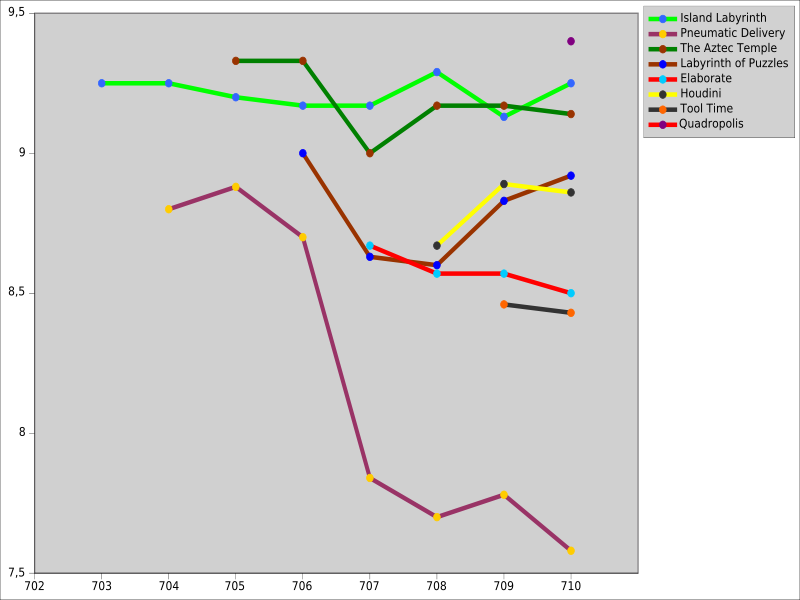
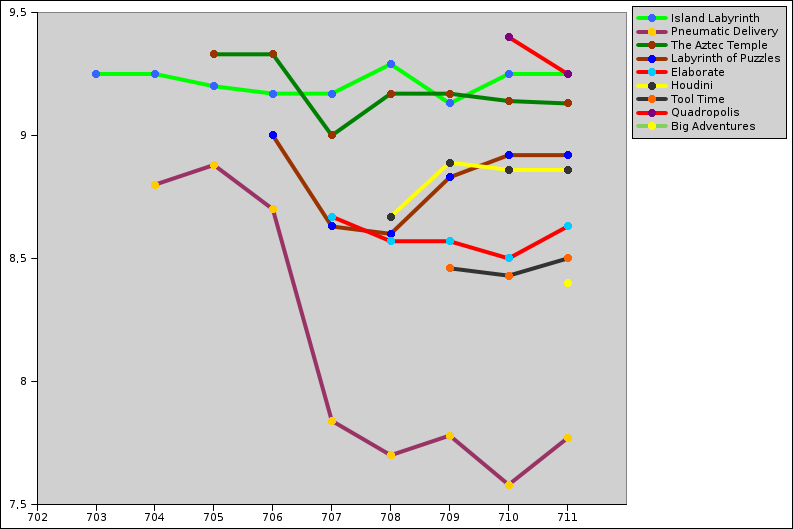
Homepage/LotM:  - LotM November 2007 (English)  - some typos and umlauts Todo:  - English proofread  - German, Russian and Spanish translations

diff --git a/input/lotm/lotm_200711.html b/input/lotm/lotm_200711.html
@@ -1,0 +1,319 @@
+<div class="lotm">
+$$lotm_header$$
+
+<h3 class="lotm">
+<span class="date">November 2007: </span>
+&quot;Big Adventures&quot;, by Jon 'WB' Sneyers
+</h3>
+
+<p>&quot;Greetings, adventurer! The road ahead is long and dangerous, so be
+careful!&quot; Jon left us a short, accurate welcome message at the beginning of
+his epic level. He encourages us to try and solve all the little riddle-pearls
+he lined up in this jewel from Enigma 0.92. And in the milky luster of each of
+these little polished pearls, the reminiscence of yet another vintage level
+flashes, or the vision of a level to come, each in a new and elegant way,
+briefly capturing the beauty of their myriad puzzles, in much the same way a
+haiku captures the entirety of a moment in just three lines ... let's pause for
+this moment and amble through the Level of the Month November 2007, &quot;Big
+Adventures&quot;!</p>
+
+<div class="lotmpic">
+<img src="$$imagedir$$/lotm/lotm_200711_d.png" alt="Level of the month" border="0">
+<div class="imagetitle">Enigma IV # 100 - Big Adventures</div>
+</div>
+
+<table cellpadding="0" cellspacing="1" class="statistics">
+<caption class="normalcaption">Some records of September 2007</caption>
+<colgroup>
+   <col width="80">
+   <col width="160">
+</colgroup>
+    <tr><td class="num">6:39</td>
+        <td class="left">Stupid</td></tr>
+    <tr><td class="num">6:45</td>
+        <td class="left">Moneymaker</td></tr>
+    <tr><td class="num">7:58</td>
+        <td class="left">Django</td></tr>
+    <tr><td class="num">8:49</td>
+        <td class="left">Great Scott</td></tr>
+    <tr><td class="num">10:10</td>
+        <td class="left">Craven</td></tr>
+    <tr><td class="num">10:13</td>
+        <td class="left">Safalra</td></tr>
+    <tr><td class="num">10:28</td>
+        <td class="left">ryujun</td></tr>
+    <tr><td class="num">10:43</td>
+        <td class="left">Johannes</td></tr>
+    <tr><td class="num">10:44</td>
+        <td class="left">Lukas</td></tr>
+    <tr><td class="num">10:56</td>
+        <td class="left">fabian</td></tr>
+    <tr><td class="num">10:58</td>
+        <td class="left">Ronald</td></tr>
+    <tr><td class="num">11:32</td>
+        <td class="left">Vlad</td></tr>
+    <tr><td class="num">11:33</td>
+        <td class="left">daydreamer</td></tr>
+    <tr><td class="num">11:51</td>
+        <td class="left">bojster</td></tr>
+    <tr><td class="num">12:16</td>
+        <td class="left">Ghatotkacha</td></tr>
+    <tr><td class="num">12:59</td>
+        <td class="left">erich</td></tr>
+    <tr><td class="num">13:03</td>
+        <td class="left">hdwow</td></tr>
+    <tr><td class="num">13:54</td>
+        <td class="left">Taztunes</td></tr>
+    <tr><td class="num">14:08</td>
+        <td class="left">Marc-Hendrik</td></tr>
+    <tr><td class="num">14:17</td>
+        <td class="left">Tobias</td></tr>
+    <tr><td class="num">14:31</td>
+        <td class="left">shoki</td></tr>
+    <tr><td class="num">14:49</td>
+        <td class="left">ABS</td></tr>
+    <tr><td class="num">16:10</td>
+        <td class="left">biotopa</td></tr>
+    <tr><td class="num">16:31</td>
+        <td class="left">NorthForty</td></tr>
+    <tr><td class="num">17:44</td>
+        <td class="left">JuSt+Vinksu</td></tr>
+    <tr><td class="num">18:21</td>
+        <td class="left">Mark P.</td></tr>
+    <tr><td class="num">18:24</td>
+        <td class="left">Melanie</td></tr>
+    <tr><td class="num">18:44</td>
+        <td class="left">Little_Mole</td></tr>
+    <tr><td class="num">19:02</td>
+        <td class="left">redsantz</td></tr>
+    <tr><td class="num">19:26</td>
+        <td class="left">mhatta</td></tr>
+    <tr><td class="num">21:58</td>
+        <td class="left">WP319</td></tr>
+    <tr><td class="num">23:07</td>
+        <td class="left">Alex</td></tr>
+    <tr><td class="num">23:25</td>
+        <td class="left">Valkyrie2</td></tr>
+    <tr><td class="num">26:22</td>
+        <td class="left">Ale</td></tr>
+    <tr><td class="num">28:44</td>
+        <td class="left">U-Punkt</td></tr>
+    <tr><td class="num">30:14</td>
+        <td class="left">HuB34</td></tr>
+    <tr><td class="num">31:36</td>
+        <td class="left">para_doks</td></tr>
+    <tr><td class="num">33:31</td>
+        <td class="left">Tarim</td></tr>
+    <tr><td class="num">48:08</td>
+        <td class="left">Sim_Ed</td></tr>    
+</table>
+
+<p>Not much has changed in the ratings of the previous LotMs:
+&quot;Quadropolis&quot; collected three more ratings, and lost its advance.
+Now, &quot;Quadropolis&quot; and &quot;Island Labyrinth&quot; are neck and
+neck, two months before the final &quot;Level of the Year&quot; announcement!
+&quot;Big Adventures&quot; enters the competition at place 8, and will surely
+keep its deserved position among the top ten levels in Enigma for many more
+LotMs to come. As always, you can find more details about the ratings
+on the <a href="$$lotm$$">LotM archive page</a>.</p>
+
+<h4>&quot;'Big Adventures' is a much more easy and pleasant level to
+play&quot;</h4>
+
+<p>Jon's classic level leads us straight back to the roots of Enigma and
+even the great Oxyd series itself. It is the second epic level only after
+&quot;Labyrinth of Puzzles&quot; and offers us a perspective: Already the initial
+scene presents us one of the most used patterns in Enigma: Three woods in a row.
+We know this combination by heart, and how to solve it, and a smile rushs over
+my face when I read the occassional question on mag-heut, how to tackle
+&quot;Jam&quot; from Oxyd Magnum. When I first encountered &quot;Big
+Adventures&quot;, the same smile ran over my face and I pushed the three blocks
+in an almost absent mood - just to notice that, this time, there would be more:
+I forgot the water. And now I had one wood too less to bridge it. After all
+these years, Jon was able to show me yet another twist on this old pattern. And
+I suddenly embosomed this level &hellip;</p>
+
+<div class="lotmpic">
+<img src="$$imagedir$$/lotm/lotm_200711_c.png" alt="Level of the month" border="0">
+<div class="imagetitle">Why is everybody pointing at me?</div>
+</div>
+
+<div class="quote">
+To be able to write a comment about 'Big Adventures' first I had to retry
+solving it and, while doing so, to succeed in being even faster than the last
+time. Countless unsuccessful attempts later I finally set up a new personal
+record: 8:57. But considering the world record of Stupid my record seems to be
+pretty slow.
+</div>
+
+<div class="quote">
+'Big Adventures' is a much more easy and pleasant level to play compared to the
+other LotMs. No actors are chasing after the marble, and speed doesn't matter.
+This level is mainly about moving blocks. It consists of many small puzzles
+bearing resemblance to Sokobans. In some of the rooms it was fun to clear the
+path to the oxyds, in others it's been hard work. Above all I remember that
+space puzzle. But when this work is done you're rewarded well. The rooms that
+follow are my absolute favorite ones in 'Big Adventures'.
+</div>
+
+<div class="quote">
+I would say that Jon's 'Little Puzzles' is a simplified version of 'Big
+Adventures'. Over there at 'LP' you'll have to cover the course several times
+before succeeding. Here at 'BA' there's no turning back once you've made a
+mistake. Love's Labor Lost: You'll have to restart all over again.
+</div>
+<div class="author">Jenny (Spioni)</div>
+
+<p>The oneway maze &hellip; it somehow feels familiar. No, I don't mean familiar
+from the tutorial level &quot;Timers&quot; where I used oneways to demonstrate
+the use of timer stones. One would think that there are more such labyrinths in
+the varied levels of Enigma, but I did not find them. On the search through my
+memories I finally found another wonderful game series, outside of the marble's
+world, the Robot series which utilized oneways in a similar way. Another memory
+of my childhood &hellip; Today, we find a oneway maze of a just slightly
+different kind in Jacob's &quot;Pleasure Garden&quot;. And of course in
+&quot;Little Puzzles&quot;, which is connected to &quot;Big Adventures&quot; in
+much more than a single shared puzzle. I'm still searching for
+the remaining occurences, and will be thankful for any hint.</p>
+
+<h4>&quot;I really did enjoy the 'Big Adventures'&quot;</h4>
+
+<p>The reverberation of &quot;Civil Engineer&quot; &hellip; a fairly simplified
+version, I have to admit. Yet, not simplified to the point of triviality for
+sure. What follows is a short recall of all those jumping levels in Enigma,
+having a tradition that dates back to &quot;J.U.M.P.&quot; and
+&quot;Jump!&quot;, which came to Enigma with version 0.70. A flash of thought -
+&quot;Balance&quot; - for a short stopover. &quot;Balance&quot; was a part of
+Enigma since the very beginnings in 0.39, and paused as a test level for a long
+time, until we reactivated it for 1.00 to complete the balancing decade in
+level pack I. Here, in &quot;Big Adventures&quot; such a balance act leads us
+to the next puzzle, a wonderful metaphor on &quot;Reach the Dock&quot;.
+An intermezzo follows, Jon keeps on encouraging us to follow his
+path &hellip;</p>
+
+<div class="lotmpic">
+<img src="$$imagedir$$/lotm/lotm_200711_b.png" alt="Level of the month" border="0">
+<div class="imagetitle">Flying ...</div>
+</div>
+
+<div class="quote">
+'Big Adventures' is quite an interesting level, mainly because of its 'split
+screen' design. Right from the start you can see what it's all about: opening
+lotsa doors. In the course of events now and then you're allowed to have a look
+at coming tasks. That's a good shot of motivation to keep you on track, so even
+the strictly linear construct of the level doesn't bother me.
+</div>
+
+<div class="quote">
+Demands on your brains are not made too high, and most of the times it's just
+moving blocks. But as a whole together with some minor dexterity interludes 'Big
+Adventures' is a nice mix. It might have a favorable effect on gameplay to have
+a weakness for Sokobans. That's right up my street, so I really did enjoy the
+'Big Adventures'.
+</div>
+
+<div class="quote">
+The only thing I don't like about this level is the matter of fact that it's not
+Me holding the world record. I hope to better this fault some time. ;-)
+</div>
+<div class="author">Andreas Geldmacher</div>
+
+<p>To what I want to repeat Jenny's words: &quot;Speed doesn't matter&quot;,
+particularly when only 6 seconds are missing. :-)</p>
+
+<p>On our way through this necklet of level pack IV, a space tube and some
+dense, seemingly impenetrable packing of woods and bombs, leads us to a big
+swamp. Do you remember? Swamp and a rotor were the first objects that blocked
+your way in Oxyd 1, and still today, swampy areas present obstacles to us, in
+&quot;Big Swamp&quot; and even in &quot;The Aztec Temple&quot;. &quot;Big
+Adventures&quot; would just not be complete without it.</p>
+
+<h4>&quot;I wanted to make some longer and more relaxed puzzle levels&quot;</h4>
+
+<p>A labyrinth of impulse stones anticipated and maybe even inspired illmind
+and Raoul to write &quot;Bump Ahead&quot; and &quot;Don't Touch&quot;, and we
+also think of &quot;Slinky Mayhem&quot;. We know that we already surpassed the
+midpoint on our way back, seeing all the solved levels once again, as we roll
+through the sand and break the stones that delimit our way. This way somehow
+gives us the sudden inspiration of a race track, a level in the far future of
+Enigma &hellip; only to find a vision of &quot;The Disappearing Block&quot; at
+the end of a zig zag course. This vision pulls us from Enigma's future back into
+its past, far back to the beginnings of Jacob Scott's carier, and his second
+level for Enigma. Seeing the oneway maze in the upper left corner of the next
+room, we know that we'll soon have to finish this level. But before this, let us
+listen to Jon Sneyers, who conceived this journey for us:</p>
+
+<div class="quote">
+You can find information about me on my <a href="http://www.cs.kuleuven.be/~jon"
+>site</a>. In summary, I'm a 26-year old computer science PhD student from
+Leuven, Belgium, interested in Free Software (running GNU/Linux for a decade
+now), left-wing politics, and music.
+</div>
+
+<div class="quote">
+If I recall correctly, I discovered Enigma by systematically searching for Free
+(as in GPL) games for GNU/Linux in an attempt to demonstrate to my friends (and
+myself) that they actually exist ;) and that they can be nicely polished, too.
+That must have been somewhere in 2002. At that time I was still studying
+(computer science) so I had plenty of time :). After trying most of the levels
+that existed at that point, I started to make some levels for my girlfriend,
+Tina. That explains the shape of &quot;Lotsa Triggers&quot; and the upper right
+corner of &quot;Little Puzzles&quot; :). Luckily, at some point I submitted
+those levels for inclusion in the next release; otherwise they would have been
+lost since some months afterwards my hard disk crashed and I used to think back
+then that backups were something of the past and hard disks didn't crash anymore
+nowadays :/.
+</div>
+
+<div class="lotmpic">
+<img src="$$imagedir$$/lotm/lotm_200711_a.png" alt="Level of the month" border="0">
+<div class="imagetitle">Oops!</div>
+</div>
+
+<div class="quote">
+Anyway, after some dexterity levels like &quot;Spiral Race&quot; and the two
+Skyscrapers, I wanted to make some longer and more relaxed puzzle levels. I
+first made some yin-yang levels (&quot;Bridge Builders&quot;, &quot;Block its
+way!&quot;) because I really like the concept of alternating between two marbles
+and letting them cooperate.  Then I made &quot;Little Puzzles&quot;, which still
+uses yin-yang but only in a superficial way (the white marble is isolated from
+the black one and has only half a screen and one small puzzle). This level was
+designed around the first room: I wanted to make a level in which you have to
+return a few times to the first screen, at each iteration getting a bit closer
+to pushing that block on that lever. The little block-water puzzles were added
+as garniture.
+</div>
+
+<div class="quote">
+Both for the player and for the level-designer, &quot;Little Puzzles&quot; was a
+preparation for &quot;Big Adventures&quot;. Big Adventures is an epic and linear
+level in which the adventurer has to solve many puzzles of different kinds to
+open all the doors to the last room. The level is linear, but curled up in a
+kind of spiral so the final room is visible from the start room and you
+constantly get previews of later rooms, or later on, flashbacks to places you've
+already been in. The level was not designed to be particularily difficult or
+evil, and while it sometimes requires some dexterity (e.g. jumping), it allows
+you to use spare lifes and walk past already solved puzzles. Its main difficulty
+lies in its size: 9 screens with at least two puzzles or obstacles on every
+screen.
+</div>
+<div class="author">Jon 'WB' Sneyers</div>
+
+<p>Passing the two final water-puzzles, we end where we started ten minutes
+ago, and see ahead of us another variation over a venerable type of puzzle, a
+Sokoban. We open the final doors, and pass through the same doors we opened
+throughout all the puzzles we encountered. We reach the final oxyd room, itself
+being a portrait, a portrait of the sister level &quot;Little Puzzles&quot; by
+Jon himself. And we close not only the obvious spiral this level folds into
+itself, but we close the circle which connects it to &quot;Little Puzzles&quot;
+as well. After solving &quot;Big Adventures&quot; we end up in the level menu
+for level pack IV, and understand, that this level finally closes the pack even
+thematically, because the pack featured spirals not only in a decade, but
+throughout the whole. Thanks to this, and on the edge to pack V, this level
+bridges the ark between Enigma's past and future in yet another way &hellip;
+Jon, many, many thanks for giving this big adventure to us!</p>
+
+<p>Greets,<br/>
+<i>Andreas and Harry</i></p>
+
+</div>

diff --git a/input/lotm/lotm_200710_de.html b/input/lotm/lotm_200710_de.html
@@ -6,7 +6,7 @@ $$lotm_header$$
 &quot;Quadropolis&quot;, Combined Effort Level I
 </h3>
 
-<h4>von Johannes Laire, Jacob Scott, Raoul Bourquin and Andreas Lochmann</h4>
+<h4>von Johannes Laire, Jacob Scott, Raoul Bourquin und Andreas Lochmann</h4>
 
 <p>Im Oktober f&uuml;hrt unsere monatliche LdM-Exkursion zu den herausragenden
 Sehensw&uuml;rdigkeiten von Enigma nach Quadropolis. Schon der Klang dieses
@@ -284,7 +284,7 @@ spannenden Raum zu entlassen.</div>
 Levels&quot;</h4>
 
 <div class="quote">
-Der Grundgedanke f&uuml;r meinen Raum entwickelte sich lange for illminds Aufruf
+Der Grundgedanke f&uuml;r meinen Raum entwickelte sich lange vor illminds Aufruf
 zum CEL I. Wie so oft, entwickeln sich Dinge auf recht unerwarteten Wegen: In
 diesem Fall denke ich, war es meine Arbeit an Enigmas Referenzhandbuch im Juni
 '06. Als ich Informationen &uuml;ber Enigmas einzigartige Spielobjekte gesammelt
@@ -385,7 +385,8 @@ Andreas, aber das musste sein.</p>
 
 <div class="lotmpic">
 <img src="$$imagedir$$/lotm/lotm_200710_c.png" alt="Level of the month" border="0">
-<div class="imagetitle">Patterns Reloaded?</div>
+<div class="imagetitle">Patterns Reloaded? Ich hole lieber<br>schnell mein Buch
+'H&ouml;here Mathematik'!</div>
 </div>
 
 <p>Beim Betreten des wei&szlig;en Startfeldes &ouml;ffnet sich der Vortex am

diff --git a/input/lotm/lotm_200709_de.html b/input/lotm/lotm_200709_de.html
@@ -286,6 +286,6 @@ $$lotm_header$$
   und den wunderbaren Level, den Ihr mit uns geteilt habt!</p>
 
   <p>Sch&ouml;ne Gr&uuml;&szlig;e,<br/>
-  <i>Harry and Andreas</i></p>
+  <i>Harry und Andreas</i></p>
 
 </div>
